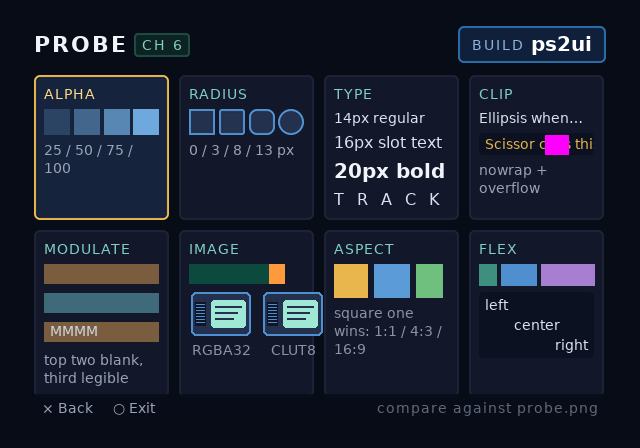
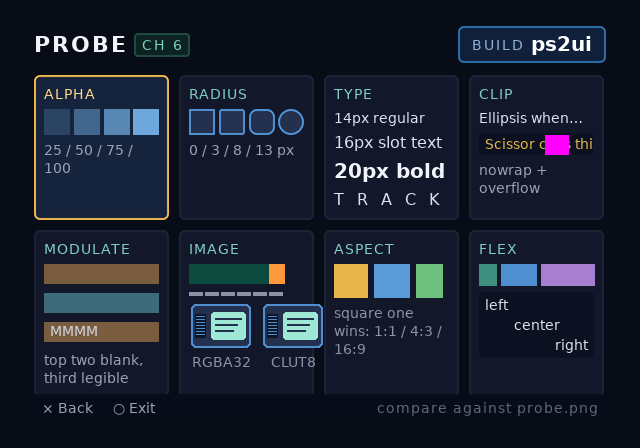
Step 3 A/B, and three instruments that could not be read (#38)
* Step 3 A/B: is the CLUT permuted once, or twice?

Hardware says the conformance grid draws its layout, borders and every
untextured colour block correctly, and every text run as unreadable
garble. The IMAGE cell's swizzle bar shows orange away from the
right-hand calibration stripe: a step 3 FAIL.

Both symptoms are what a wrong CLUT predicts. All four font atlases in
that blob are PSMT8 sharing one CLUT, so a palette that lands wrong
turns glyph coverage into noise while leaving untextured geometry
untouched -- which is exactly the split observed.

bringup.md predicted this and named the test before anyone ran it: "If
your gsKit or GS path expects a linear CLUT ... you are
double-permuting -- the involution means applying it twice is the
identity ... Toggle the permute_clut call and compare."

So the toggle is now a build flag. -DPS2UI_CLUT_PERMUTE=0 uploads the
CLUT linearly; `make LINEAR_CLUT=1` sets it; CI ships sample-linear.elf
and conform-linear.elf beside the ordinary builds, and the emulator job
captures the linear-CLUT UI and diffs it against the same ground truth
as the permuted one. Two RMSE numbers in one log, and the smaller names
the convention.

An involution cannot be argued about from one side of it. That is also
why no host test can settle this: the host has no GS, so permute_clut
is correct by construction whichever way it runs. csm1 is already
tested as an involution and as non-identity (8 <-> 16), so the flag
[…]

Changed region(s): [[0.2812, 0.625, 0.5312, 0.8438]]

diff --git a/examples/channel6/ui/probe.html b/examples/channel6/ui/probe.html
@@ -67,6 +67,18 @@
     <div class="cell" id="probe-image" focusable>
       <p class="cell-label">IMAGE</p>
       <img class="swz" src="assets/swizzle.png" palettize>
+      <!-- The ruler. The tile is six 16px regions with nothing marking
+           where one ends, so reading it meant estimating "which sixth
+           is orange" -- a measurement, which this project decided
+           operators cannot make. A bench session lost time to exactly
+           that. These are untextured quads, the one path not under
+           suspicion, so the ruler stays trustworthy even when the tile
+           it measures does not. -->
+      <div class="swz-ruler">
+        <div class="swz-tick"></div><div class="swz-tick"></div>
+        <div class="swz-tick"></div><div class="swz-tick"></div>
+        <div class="swz-tick"></div><div class="swz-tick"></div>
+      </div>
       <div class="img-row">
         <div class="img-col">
           <img class="img-sample" src="assets/card.png">

diff --git a/examples/channel6/ui/channel6.css b/examples/channel6/ui/channel6.css
@@ -537,6 +537,24 @@ h1 {
   height: 20px;
 }
 
+/* Six segments, 16px each, exactly under the tile's six regions. The
+ * 2px gaps are what make the regions countable: an orange region can
+ * now be named by position instead of estimated as a fraction. Width
+ * and count are tied to the tile by check.py, so a tile that grows a
+ * seventh region cannot leave a six-segment ruler under it. */
+.swz-ruler {
+  flex-direction: row;
+  width: 96px;
+  height: 4px;
+  gap: 2px;
+  margin-top: 2px;
+}
+.swz-tick {
+  width: 14px;
+  height: 4px;
+  background: #8b94a7;
+}
+
 /* Images: identical source, PSMCT32 on the left, PSMT8+CLUT right. */
 .img-row { flex-direction: row; align-items: center; gap: 8px; }
 .img-col {

diff --git a/examples/channel6/check.py b/examples/channel6/check.py
@@ -263,8 +263,9 @@ def main(path: str) -> int:
     # particular the TRAP entries have to differ from the probe entries:
     # if linear[16] ever equalled linear[8], a bit-3 fault would render
     # identically to a correct upload and the probe could not fail.
-    swz = [t for t in uib.textures
-           if t.fmt == gs.PSMT8 and (t.width, t.height) == (96, 20)]
+    swz_ix = [i for i, t in enumerate(uib.textures)
+              if t.fmt == gs.PSMT8 and (t.width, t.height) == (96, 20)]
+    swz = [uib.textures[i] for i in swz_ix]
     check(len(swz) == 1, f"the swizzle tile baked as PSMT8 ({len(swz)} found)")
     if len(swz) == 1:
         tile = swz[0]
@@ -286,6 +287,37 @@ def main(path: str) -> int:
         order = [first[c * cell] for c in range(6)]
         check(order == [0, 8, 32, 48, 1, 2],
               f"in the order the reading table depends on ({order})")
+
+        # The ruler beneath has to have one segment per region and to
+        # span the same width, or it stops being a ruler and becomes a
+        # second thing to misread. Tied here rather than trusted,
+        # because the tile's region count lives in a Python generator
+        # and the ruler's lives in HTML -- two places that cannot see
+        # each other. Drawn as untextured quads on purpose: the tile is
+        # the thing under test, so its ruler must not share its path.
+        ticks = [r for r in uib.records
+                 if r.op == OP_QUAD and (r.w, r.h) == (14, 4)]
+        check(len(ticks) == 6,
+              f"the swizzle ruler has one segment per region "
+              f"({len(ticks)} found, 6 regions)")
+        if len(ticks) == 6:
+            xs = sorted(r.x for r in ticks)
+            # STRIDE, not total span. Six 14px segments with 2px gaps
+            # cover 94px under a 96px tile -- the trailing gap is not
+            # drawn -- so a span equality is simply false, and asserting
+            # it would have meant loosening the check until it passed.
+            # Stride is the property alignment actually depends on: one
+            # segment per region, starting where the region starts.
+            strides = {xs[i + 1] - xs[i] for i in range(5)}
+            check(strides == {cell},
+                  f"one ruler segment per {cell}px region "
+                  f"(strides {sorted(strides)})")
+            swzq = [r for r in uib.records
+                    if r.op == OP_TEXQUAD and r.tex == swz_ix[0]]
+            check(len(swzq) == 1 and xs[0] == swzq[0].x,
+                  f"and the ruler starts where the tile does "
+                  f"(ruler x={xs[0]}, tile x="
+                  f"{swzq[0].x if len(swzq) == 1 else '?'})")
         # And every pixel of a region has to match that region's
         # sample, not merely be uniform along its own row. The first
         # version of this check tested each region-row independently,

diff --git a/runtime/sample/main.c b/runtime/sample/main.c
@@ -524,7 +524,7 @@ static void probe_frame(GSGLOBAL *gs)
 #define P6_WIDE_W   256
 #define P6_WIDE_H   64
 #define P6_W        72           /* drawn width, in pixels and texels */
-#define P6_H        56           /* one band's height */
+#define P6_H        48           /* one band's height */
 #define P6_CELL     8            /* checker cell, in texels */
 #define P6_OFF      3            /* the "not the corner" UV origin */
 #define P6_COLS     6
@@ -563,6 +563,27 @@ static void probe_frame(GSGLOBAL *gs)
 #endif
 #if (P6_W % P6_GLYPH_W) != 0 || (P6_H % P6_GLYPH_H) != 0
 #error "step 6 probe: glyph-sized quads must tile the band exactly"
+#endif
+/* The band must be an EVEN number of checker rows.
+ *
+ * The two bands are the same image stacked, so with an odd row count
+ * the last row of the upper band and the first row of the lower one
+ * land on the same phase and merge into one double-height row. That is
+ * a visible feature at every join, in every column, whether the column
+ * is faulty or not -- and the whole reading is "is there something at
+ * the join". It shipped at 56px (7 rows) and made the probe unreadable
+ * by eye at a bench; the CI measurement compares the two bands as
+ * images and never noticed. */
+#if ((P6_H / P6_CELL) % 2) != 0
+#error "step 6 probe: band height must be an even number of checker rows, or every join shows a false seam"
+#endif
+/* Not "H is a whole number of cells" -- that cannot fire while the
+ * glyph quad and the checker cell are the same size, so it would be a
+ * guard with no reachable failure. This is the invariant that makes the
+ * tiling guard above sufficient; break the equality and you get told
+ * rather than silently losing the coverage. */
+#if P6_CELL != P6_GLYPH_H || P6_CELL != P6_GLYPH_W
+#error "step 6 probe: cell and glyph-quad size have diverged, so the tiling guard no longer implies whole checker rows"
 #endif
 #define P6_SPAN (P6_COLS * P6_W + (P6_COLS - 1) * P6_GAP)
 #if P6_X0 < PROBE_SAFE_X0 || (P6_X0 + P6_SPAN) > PROBE_SAFE_X1

diff --git a/runtime/ps2ui.c b/runtime/ps2ui.c
@@ -212,6 +212,24 @@ uint32_t ps2ui_clut_csm1(uint32_t index)
     return (index & ~0x18u) | (b3 << 4) | (b4 << 3);
 }
 
+/* Build with -DPS2UI_CLUT_PERMUTE=0 to upload the CLUT linearly.
+ *
+ * This exists as a compile-time A/B because the permutation is an
+ * INVOLUTION, which makes its two failure modes indistinguishable from
+ * the inside: applying it once is correct if the GS un-permutes, and
+ * applying it zero or two times is identical to each other. If gsKit --
+ * or a particular gsKit version -- already permutes on upload, ps2ui
+ * doing it too lands the CLUT in VRAM linear, every index fetches the
+ * wrong palette entry in 8-entry bands, and glyph coverage turns to
+ * noise. No host test can tell those apart, because the host has no GS.
+ *
+ * bringup.md step 3 names the symptom and the test: "Toggle the
+ * permute_clut call and compare." This is that toggle, so the compare
+ * is two ELFs rather than a source edit at a bench. */
+#ifndef PS2UI_CLUT_PERMUTE
+#define PS2UI_CLUT_PERMUTE 1
+#endif
+
 /* CLUTs are stored linearly in the file (readable by any tool); the GS
  * wants CSM1 storage order on upload. Permute into `out` (256*4 bytes). */
 static void permute_clut(const uint8_t *linear, uint16_t ncolors, uint8_t *out)
@@ -219,7 +237,11 @@ static void permute_clut(const uint8_t *linear, uint16_t ncolors, uint8_t *out)
     uint32_t i;
     memset(out, 0, 256 * 4);
     for (i = 0; i < ncolors && i < 256; i++) {
+#if PS2UI_CLUT_PERMUTE
         uint32_t j = ps2ui_clut_csm1(i);
+#else
+        uint32_t j = i;
+#endif
         memcpy(out + j * 4, linear + i * 4, 4);
     }
 }

diff --git a/runtime/ps2ui.h b/runtime/ps2ui.h
@@ -43,6 +43,23 @@ extern "C" {
 #endif
 #endif
 
+/* Say which arm was taken, in the build log.
+ *
+ * The autoselect above is silent, and its two outcomes differ in what
+ * reaches a screen: the fallback renders text and nine-patches DECAL,
+ * untinted, on a toolchain nobody inspected. A build that quietly chose
+ * it looks exactly like a build that chose MODULATE until a console is
+ * in front of you -- which is the shape of check this project keeps
+ * digging out of itself. Reporting costs one line and makes the ELF's
+ * provenance readable from CI. */
+#if !defined(PS2UI_HOST_TEST)
+#if PS2UI_GSKIT_HAS_FUNCTION
+#pragma message "ps2ui: GSTEXTURE::Function present - text uses GS_TFX_MODULATE"
+#else
+#pragma message "ps2ui: GSTEXTURE::Function ABSENT - text renders untinted (DECAL fallback)"
+#endif
+#endif
+
 /* ---- on-disk layout (little-endian, matches packages/baker/uib.py) ---- */
 
 #define PS2UI_MAGIC   0x31424955u /* "UIB1" */

diff --git a/docs/bench-runbook.md b/docs/bench-runbook.md
@@ -12,15 +12,17 @@ order of operations.
 ## Before you start
 
 **Get the ELFs.** From the latest green `hw` run on `main`, download the
-`ps2ui-sample-elf` artifact. It contains seven files:
+`ps2ui-sample-elf` artifact. It contains nine files:
 
 | file | what it is for |
 |---|---|
-| `minimal.elf` | step 1 — already passed, keep it as a sanity check |
+| `minimal.elf` | step 1 — already passed, keep it as a sanity check. **Exits after ~30 s**, see below |
 | `probe.elf` | step 2 — already passed, keep it for the same reason |
 | `conform.elf` | steps 3, 4, 5, 7 — the conformance grid |
 | `testcard.elf` | steps 6 and 8 — the alignment card |
 | `probe6.elf` | step 6b — which part of the texture path is at fault |
+| `conform-linear.elf` | step 3's A/B — the same grid with the CLUT unpermuted |
+| `sample-linear.elf` | the same A/B on the memcard UI |
 | `ps2ui_sample.elf` | step 9, and the only one that looks like a real UI |
 | `telemetry.elf` | frame timing, not a bring-up step |
 
@@ -34,6 +36,14 @@ that drive before today.
 itself. A copy that reports success and has not flushed is the single
 most common way to spend an hour reading a photograph of the wrong
 build.
+
+**Two of these ELFs quit on a timer, by design.** `minimal.elf` holds
+for about 30 seconds and `probe.elf` and `probe6.elf` for about 90,
+then return to the browser — that is deliberate, because a frozen
+console and a working one look identical on a static screen, and
+returning is what tells them apart. It also means **a photo taken
+later is a photo of your launcher, not of the instrument.** If you are
+comparing two builds, boot each one fresh and shoot it promptly.
 
 **One photo per step, straight on.** Every instrument here is built so
 a phone at arm's length can read it. Nothing needs a measurement.
@@ -92,6 +102,24 @@ against its right edge**.
 | an extra stripe at 3/6 across | **FAIL** — bit 4 |
 | stripes at 1/6, 3/6 and the right | **FAIL** — the permutation is not being applied at all |
 | **no stripe anywhere** | **VOID** — the rightmost stripe is the calibration and no permutation can remove it. If it is gone, this cell cannot show you a stripe and the rest of the row means nothing |
+
+**If this FAILS, run the A/B before anything else.** The permutation is
+an involution, so "never applied" and "applied twice" look identical
+and no amount of staring settles which one you have. Boot
+`conform-linear.elf` — the same grid with the CLUT uploaded unpermuted
+— and compare the two:
+
+| | verdict |
+|---|---|
+| `conform.elf` correct, `conform-linear.elf` wrong | the permutation is right; the fault is elsewhere |
+| **`conform-linear.elf` correct, `conform.elf` wrong** | **we are double-permuting.** gsKit is already doing it; ps2ui must stop |
+| both wrong, differently | neither convention fits — report both pictures |
+| both wrong, identically | the CLUT is not reaching VRAM at all |
+
+**Text is the fastest read here.** Glyph atlases are PSMT8 sharing one
+CLUT, so a wrong palette turns glyph coverage into noise. If one build
+renders legible text and the other renders garble, that is the answer
+and you can stop.
 
 ---
 

diff --git a/docs/bringup.md b/docs/bringup.md
@@ -510,8 +510,29 @@ permutes on upload via `ps2ui_clut_csm1()` (bit-3/bit-4 swap). If your
 gsKit or GS path expects a linear CLUT (CSM2, or a gsKit that permutes
 internally), you are double-permuting — the involution means applying
 it twice is the identity, so symptoms are: correct = permuted once,
-garbled in 8-entry bands = zero or two times. Toggle the `permute_clut`
-call and compare.
+garbled in 8-entry bands = zero or two times.
+
+That toggle is now a build flag rather than a source edit:
+`make -C runtime/sample LINEAR_CLUT=1` sets `-DPS2UI_CLUT_PERMUTE=0`,
+and CI ships `sample-linear.elf` and `conform-linear.elf` beside the
+ordinary builds. The emulator job captures the linear-CLUT UI and diffs
+it against the same previewer ground truth as the permuted one, so the
+two RMSE numbers sit together in the log and the smaller names the
+correct convention.
+
+**An involution cannot be argued about from one side of it**, which is
+why this is two ELFs and not an opinion. No host test can separate the
+two cases either: the host has no GS, so `permute_clut` is correct by
+construction whichever way it runs.
+
+**HARDWARE, SCPH-50000:** the conformance grid renders its layout,
+borders and every untextured colour block correctly, and every text run
+as unreadable garble. The `IMAGE` cell's swizzle bar shows orange away
+from the right-hand calibration stripe, which is a step 3 FAIL. Both
+symptoms are what a wrong CLUT predicts, since all four font atlases
+are PSMT8 sharing one CLUT. The emulator shows a milder version of the
+same signature -- text differing while flat quads match -- so it is not
+a Play! artifact.
 
 ## 4. Text tinting and `GSTEXTURE::Function`
 
@@ -669,7 +690,7 @@ same screen is what separates "Play! renders text differently" from
 "ps2ui renders text wrongly", and until one has, this is not a defect
 against the renderer.
 
-### The step 6 probe — five columns, one variable each
+### The step 6 probe — six columns, one variable each
 
 `make -C runtime/sample PROBE6=1` builds `probe6.elf`; CI ships it in
 the artifact.
@@ -720,7 +741,7 @@ the cause lived there, A–E would all have come back clean and been read
 as *"not the format, not the origin, not the scale"* — an answer nobody
 can act on, and the same shape of mistake as this probe's v1.
 
-Every column draws the same 72×56 checker at 1:1, with an untextured
+Every column draws the same 72×48 checker at 1:1, with an untextured
 reference of that image directly beneath — phase-shifted by that
 column's own UV origin, so each reference is what *that* column should
 look like. One seam per column.
